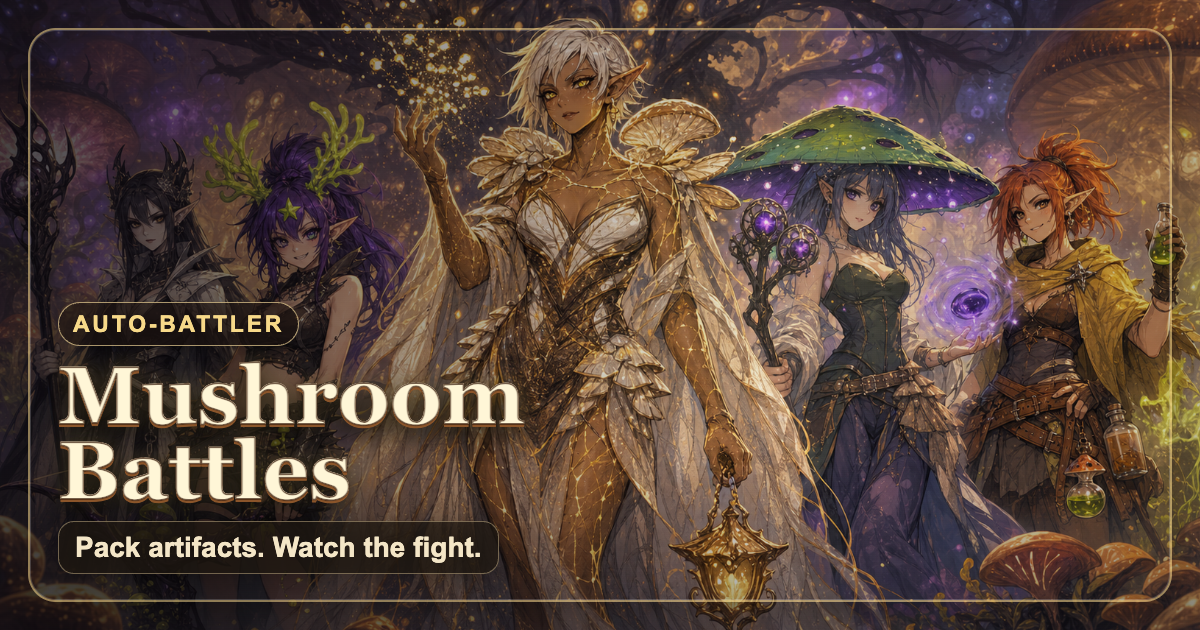
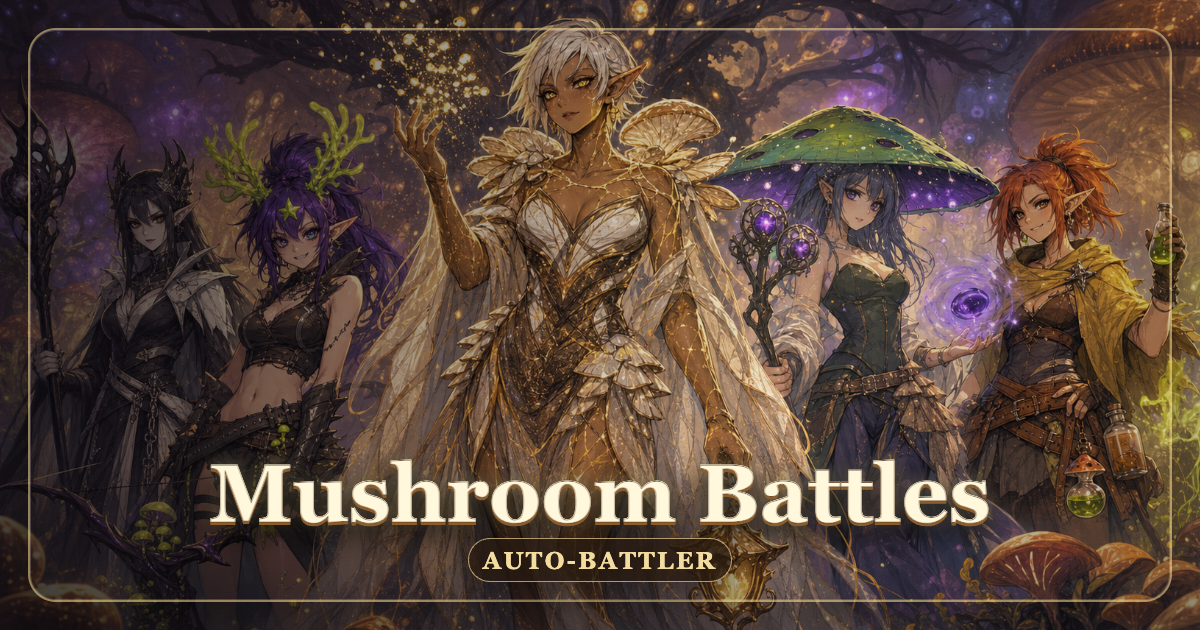
Cache generated social preview on startup

Changed region(s): [[0.0308, 0.4825, 0.8325, 0.9349]]

diff --git a/app/scripts/generate-social-preview.js b/app/scripts/generate-social-preview.js
@@ -2,7 +2,7 @@
 import fs from 'node:fs';
 import path from 'node:path';
 import process from 'node:process';
-import { fileURLToPath } from 'node:url';
+import { fileURLToPath, pathToFileURL } from 'node:url';
 import puppeteer from 'puppeteer';
 
 const __filename = fileURLToPath(import.meta.url);
@@ -14,6 +14,8 @@ const DEFAULT_TEMP_OUT = path.join(repoRoot, 'tmp/social-preview.png');
 const PRODUCTION_OUT = path.join(repoRoot, 'web/public/marketing/social-preview.png');
 const WIDTH = 1200;
 const HEIGHT = 630;
+const DEFAULT_LAYOUT = 'middle-bottom';
+const DEFAULT_STYLE = 'storybook';
 const LAYOUTS = [
   'left',
   'center',
@@ -39,8 +41,8 @@ function parseArgs(argv) {
     out: DEFAULT_TEMP_OUT,
     title: 'Mushroom Battles',
     subtitle: 'Pack artifacts. Watch the fight.',
-    layout: 'left',
-    style: 'classic',
+    layout: DEFAULT_LAYOUT,
+    style: DEFAULT_STYLE,
     allLayouts: false,
     allStyles: false,
     production: false
@@ -98,8 +100,8 @@ Options:
   --base PATH             Base key art image. Default: web/public/marketing/character-key-art-base.png
   --title TEXT            Title text. Default: Mushroom Battles
   --subtitle TEXT         Small supporting line. Default: Pack artifacts. Watch the fight.
-  --layout MODE           Title layout: ${LAYOUTS.join(', ')}. Default: left
-  --style MODE            Title style: ${STYLES.join(', ')}. Default: classic
+  --layout MODE           Title layout: ${LAYOUTS.join(', ')}. Default: ${DEFAULT_LAYOUT}
+  --style MODE            Title style: ${STYLES.join(', ')}. Default: ${DEFAULT_STYLE}
   --all-layouts           Render all title layouts beside --out for review
   --all-styles            Render all title styles beside --out for review
 `;
@@ -533,7 +535,7 @@ function buildHtml({ base, title, subtitle, layout, style }) {
 </html>`;
 }
 
-async function renderPreview(args) {
+export async function renderPreview(args) {
   if (!LAYOUTS.includes(args.layout)) {
     throw new Error(`Invalid --layout "${args.layout}". Use one of: ${LAYOUTS.join(', ')}.`);
   }
@@ -593,7 +595,9 @@ async function main() {
   }
 }
 
-main().catch((error) => {
-  console.error(error.message || error);
-  process.exit(1);
-});
+if (process.argv[1] && import.meta.url === pathToFileURL(process.argv[1]).href) {
+  main().catch((error) => {
+    console.error(error.message || error);
+    process.exit(1);
+  });
+}

diff --git a/app/server/social-preview-cache.js b/app/server/social-preview-cache.js
@@ -1,0 +1,41 @@
+import fs from 'fs';
+import path from 'path';
+import { renderPreview } from '../scripts/generate-social-preview.js';
+import { log } from './lib/obs.js';
+import { repoRoot } from '../shared/repo-root.js';
+
+const webDist = path.join(repoRoot, 'web/dist');
+const webPublic = path.join(repoRoot, 'web/public');
+const baseImage = path.join(webPublic, 'marketing/character-key-art-base.png');
+const publicPreview = path.join(webPublic, 'marketing/social-preview.png');
+const cachedPreview = path.join(webDist, 'marketing/social-preview.png');
+
+export async function ensureSocialPreviewCache() {
+  fs.mkdirSync(path.dirname(cachedPreview), { recursive: true });
+
+  try {
+    await renderPreview({
+      base: baseImage,
+      out: cachedPreview,
+      title: 'Mushroom Battles',
+      subtitle: 'Pack artifacts. Watch the fight.',
+      layout: 'middle-bottom',
+      style: 'storybook'
+    });
+    log.info({
+      kind: 'social_preview_cache',
+      outcome: 'generated',
+      path: path.relative(repoRoot, cachedPreview)
+    });
+  } catch (error) {
+    if (fs.existsSync(publicPreview) && !fs.existsSync(cachedPreview)) {
+      fs.copyFileSync(publicPreview, cachedPreview);
+    }
+    log.warn({
+      kind: 'social_preview_cache',
+      outcome: 'fallback',
+      path: path.relative(repoRoot, cachedPreview),
+      message: error.message
+    });
+  }
+}

diff --git a/app/server/create-app.js b/app/server/create-app.js
@@ -61,6 +61,7 @@ import { log, requestLogger } from './lib/obs.js';
 import { idempotency } from './lib/idempotency.js';
 import { rateLimit, clearRateLimitBuckets } from './lib/rate-limit.js';
 import { getWikiEntry, getWikiHome } from './wiki.js';
+import { ensureSocialPreviewCache } from './social-preview-cache.js';
 import { repoRoot } from '../shared/repo-root.js';
 
 const webDist = path.join(repoRoot, 'web/dist');
@@ -257,6 +258,7 @@ export async function createApp() {
   await getDb();
   ensureDistFreshOrRebuild();
   syncPublicPortraitsToDist();
+  await ensureSocialPreviewCache();
   const app = express();
   app.use(express.json({ limit: '2mb' }));
   app.use(securityHeaders());

diff --git a/docs/social-preview-character-key-art.md b/docs/social-preview-character-key-art.md
@@ -182,11 +182,13 @@ Avoid: direct Fortnite resemblance, sci-fi guns, cartoon mascots, human-only cas
 
 ## Current Production Prompt
 
-The current committed base image at `web/public/marketing/character-key-art-base.png` was generated from Prompt A: Premium Hero Splash. The production social preview at `web/public/marketing/social-preview.png` is generated by compositing the stylized title with:
+The current committed base image at `web/public/marketing/character-key-art-base.png` was generated from Prompt A: Premium Hero Splash. The production social preview at `web/public/marketing/social-preview.png` uses the `middle-bottom` layout with the `storybook` style. It is generated by compositing the stylized title with:
 
 ```bash
 npm run game:social-preview -- --production
 ```
+
+On app startup, the server refreshes the served cache at `web/dist/marketing/social-preview.png` from the same base image and title template. If image generation is unavailable in the runtime, the committed `web/public/marketing/social-preview.png` is used as the fallback.
 
 For local review without touching the production asset:
 
